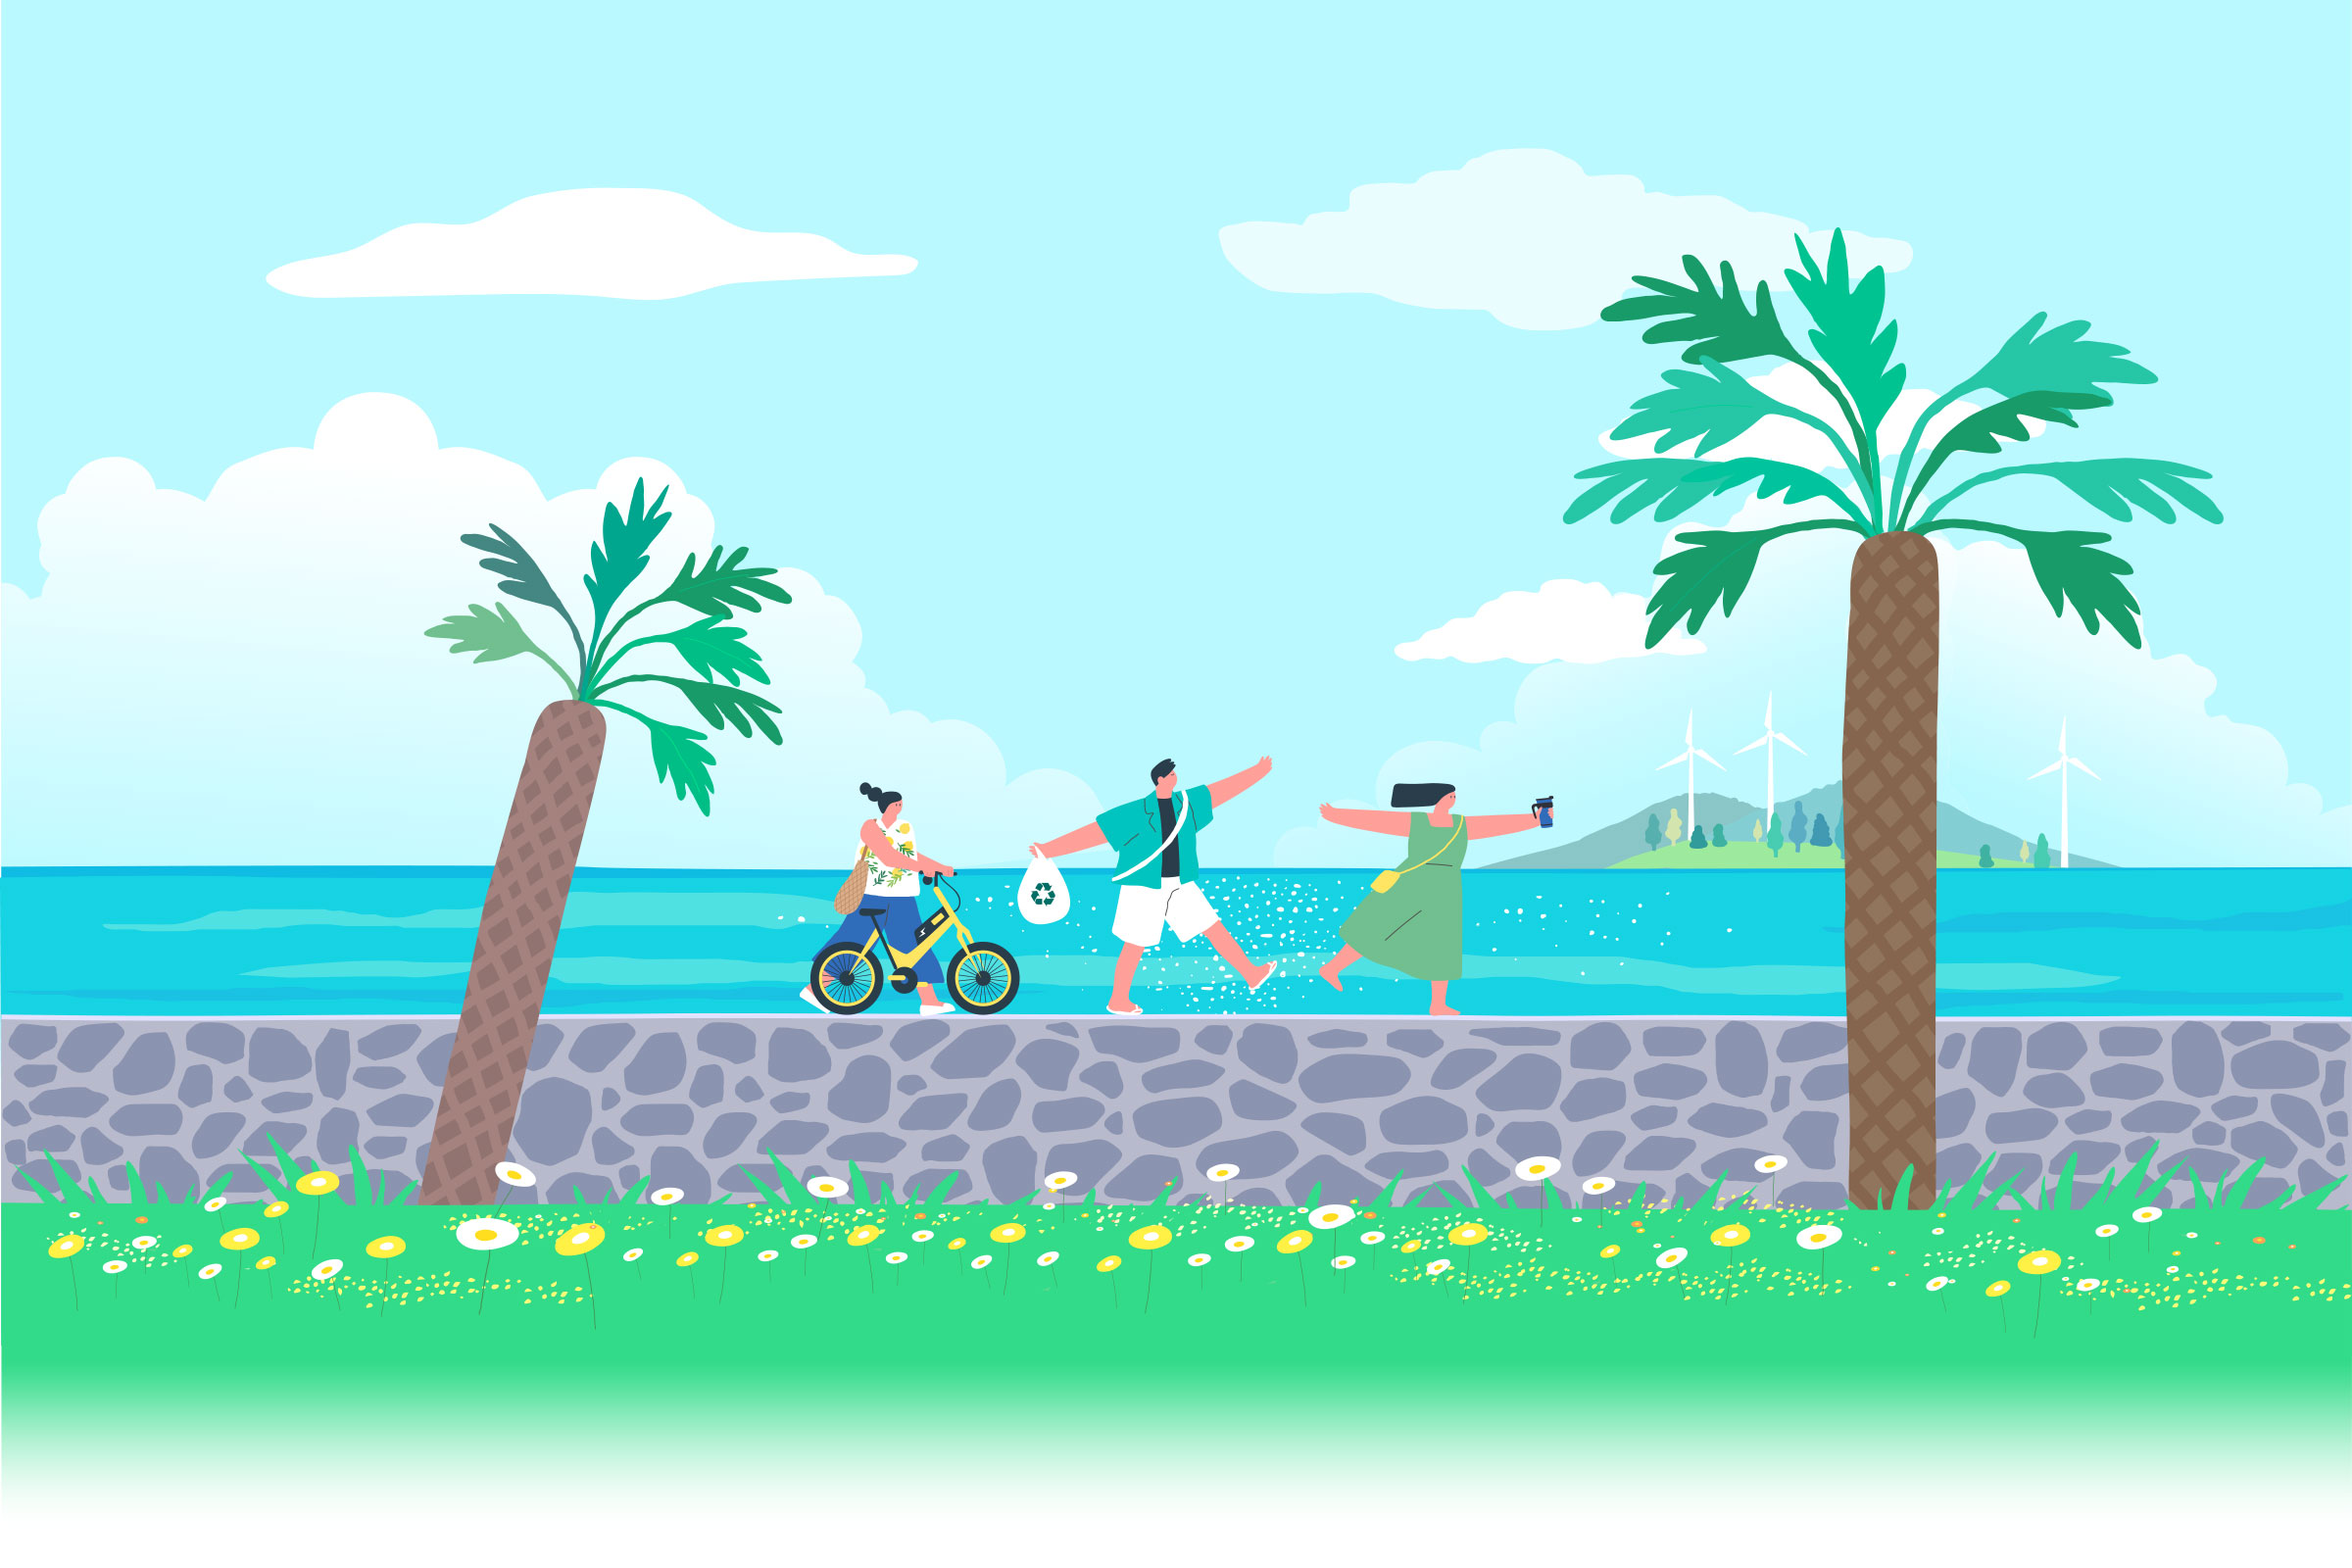
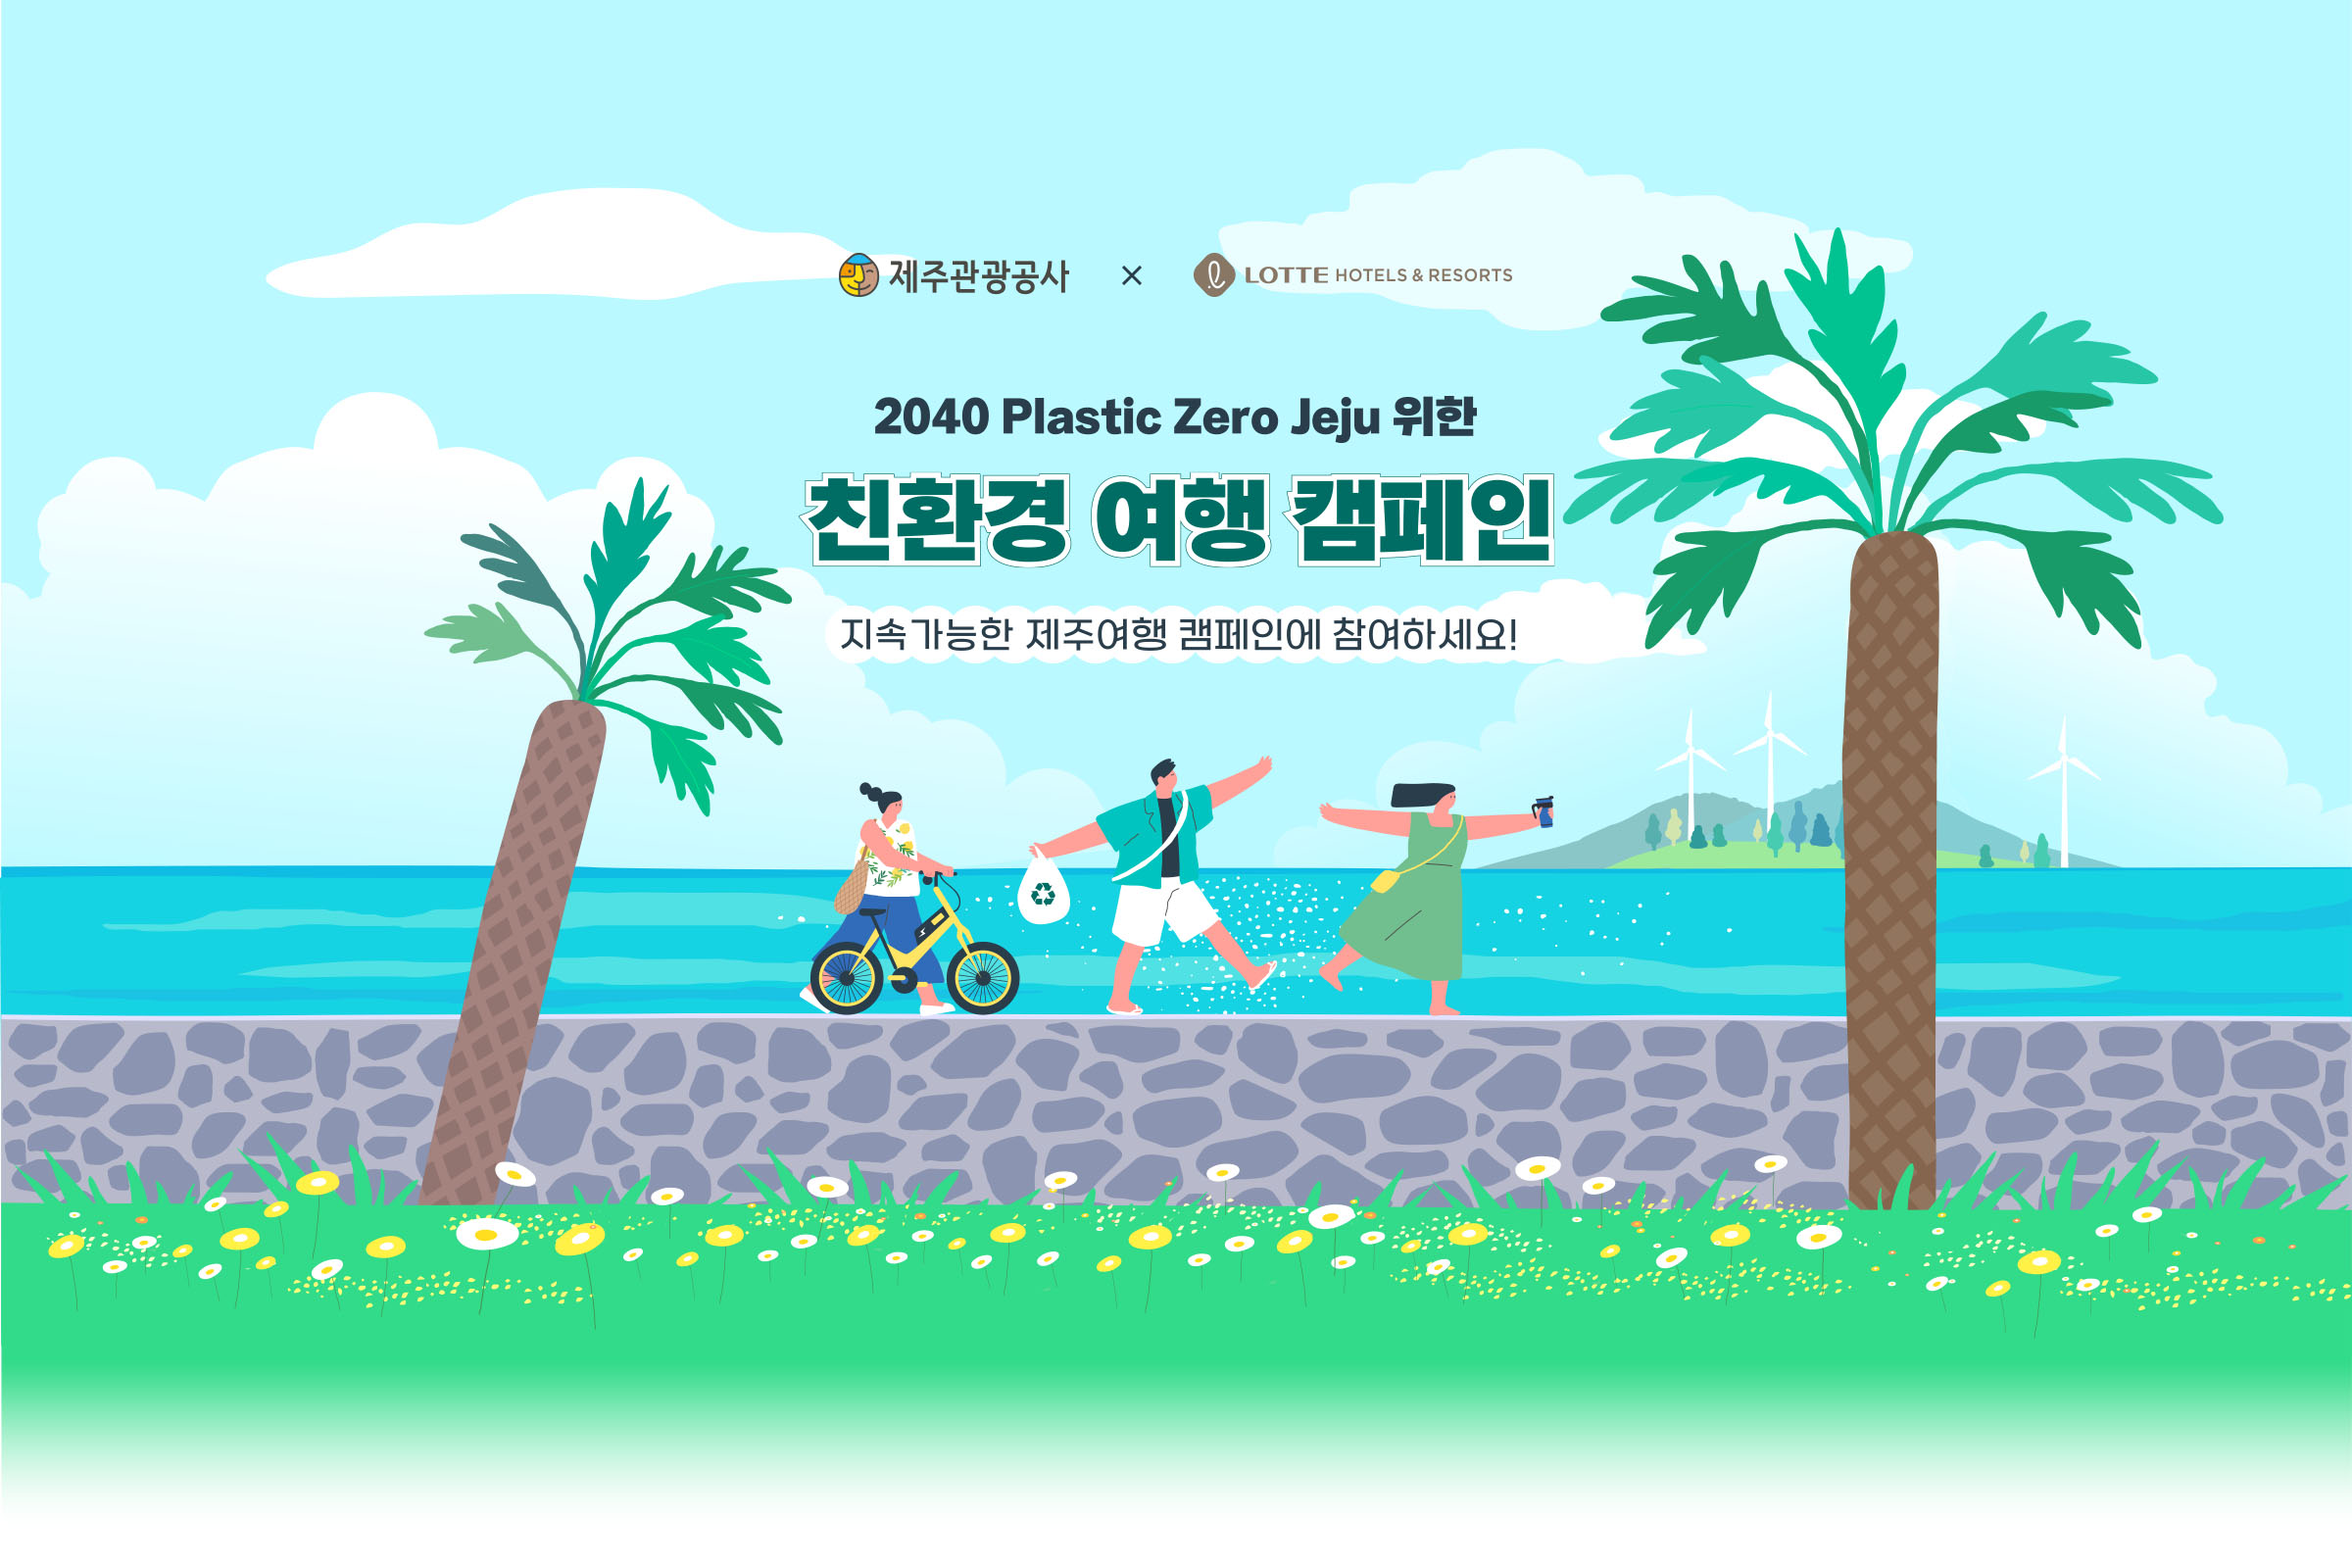
수정

Changed region(s): [[0.3438, 0.25, 0.6875, 0.4375], [0.5, 0.1562, 0.625, 0.1875], [0.3438, 0.1562, 0.4688, 0.1875]]

diff --git a/source/css/style.scss b/source/css/style.scss
@@ -57,7 +57,7 @@ body {
     h1 {
       width:290px;
       height:110px;
-      background:url(../images/title.png) no-repeat center / 100% auto;
+      // background:url(../images/title.png) no-repeat center / 100% auto;
       margin:160px auto 440px;
 
       @media (min-width: 800px) {
@@ -292,25 +292,23 @@ body {
 
         p {
           position:absolute;
-          left:102px;
+          left:92px;
           top:207px;
-          width:142px;
+          width:154px;
           font-weight:200;
           font-size:9px;
-          letter-spacing:-1px;
           margin:0;
           @media (min-width: 800px) {
-            left:135px;
+            left:122px;
             top:279px;
-            width:190px;
+            width:202px;
             font-size:11px;
-            letter-spacing:0;
           }
     
           @media (min-width: 2200px) {
-            left:269px;
+            left:244px;
             top:554px;
-            width:380px;
+            width:404px;
             font-size:22px;
             letter-spacing:0;
             
@@ -370,11 +368,11 @@ body {
           margin:80px 0 0;
         }
 
-        &:hover,
-        &.active {
-          background:url(../images/download-on.jpg) no-repeat center / 100% auto;
+        // &:hover,
+        // &.active {
+        //   background:url(../images/download-on.jpg) no-repeat center / 100% auto;
 
-        }
+        // }
       }
 
     }

diff --git a/source/css/style.css b/source/css/style.css
@@ -527,7 +527,6 @@ body div.outline {
 body header h1 {
   width: 290px;
   height: 110px;
-  background: url(../images/title.png) no-repeat center/100% auto;
   margin: 160px auto 440px;
 }
 @media (min-width: 800px) {
@@ -742,28 +741,26 @@ body div.form div.result div.result-img {
 }
 body div.form div.result div.result-img p {
   position: absolute;
-  left: 102px;
+  left: 92px;
   top: 207px;
-  width: 142px;
+  width: 154px;
   font-weight: 200;
   font-size: 9px;
-  letter-spacing: -1px;
   margin: 0;
 }
 @media (min-width: 800px) {
   body div.form div.result div.result-img p {
-    left: 135px;
+    left: 122px;
     top: 279px;
-    width: 190px;
+    width: 202px;
     font-size: 11px;
-    letter-spacing: 0;
   }
 }
 @media (min-width: 2200px) {
   body div.form div.result div.result-img p {
-    left: 269px;
+    left: 244px;
     top: 554px;
-    width: 380px;
+    width: 404px;
     font-size: 22px;
     letter-spacing: 0;
   }
@@ -821,11 +818,6 @@ body div.form div.result a {
     height: 136px;
     margin: 80px 0 0;
   }
-}
-body div.form div.result button:hover, body div.form div.result button.active,
-body div.form div.result a:hover,
-body div.form div.result a.active {
-  background: url(../images/download-on.jpg) no-repeat center/100% auto;
 }
 body div.form div.counter {
   position: relative;

diff --git a/index2.html b/index2.html
@@ -19,7 +19,8 @@
         <div class="outline">
             <!-- S:header -->
             <header id="header">
-                <h1>
+                <h1>    
+                        제주관광공사 x lotte hotels & resorts
                         2040 Plastic Zero Jeju 위한 친환경 여행 캠페인
                         지속가능한 제주여행 캠페인에 참여하세요!
                 </h1>
